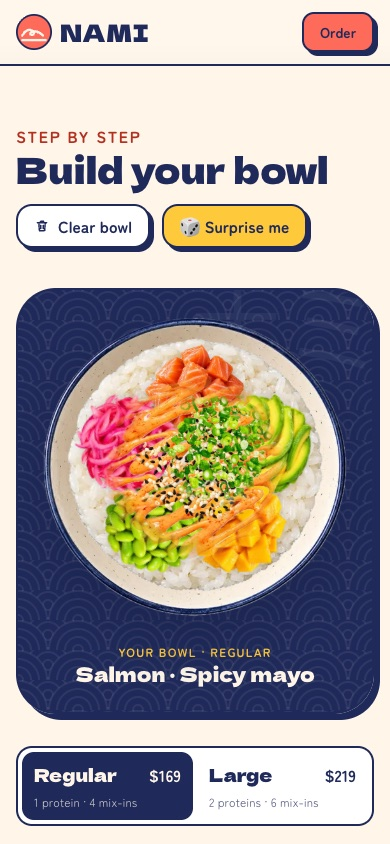
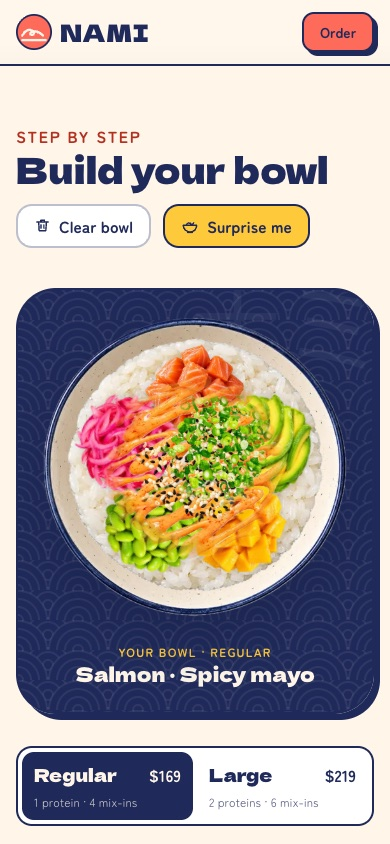
README actualizado y sin la guía de prompts
- Nueva sección "Design": íconos propios, sticker solo en acciones
  clave, el bowl como protagonista del hero y el patrón seigaiha
- Etiquetas de dieta descritas como "solo lo que distingue"
- Lighthouse re-medido (móvil 94, escritorio 100) y capturas nuevas
- Se elimina docs/prompts-imagenes.md

Changed region(s): [[0.0308, 0.2464, 0.8, 0.3081]]

diff --git a/README.md b/README.md
@@ -36,7 +36,7 @@ A landing page with a **real-time visual poke bowl builder**. Start from a house
 - Three filters: **vegan**, **gluten-free** and **no fish or seafood**.
 - Ingredients that don't match are dimmed and **say why** ("Not vegan", "Contains gluten"); tapping one explains instead of adding it.
 - If the bowl already has something that doesn't match, a notice offers to **remove it** in one tap. "Surprise me" respects the filters too.
-- Every ingredient card shows its diet labels as **text** (Vegan, Gluten-free, Seafood), not only as colors or icons.
+- Ingredient cards only label **what sets them apart** (Seafood, Contains gluten, Not vegan), as text rather than color or icons. Most ingredients are vegan and gluten-free, so marking them all would just be noise.
 - Labels are **derived from what each ingredient contains** (fish, shellfish, meat, egg, gluten), so one fact drives the filters, the card labels and the house bowl labels.
 
 ### Order with several bowls and simulated checkout
@@ -63,11 +63,18 @@ A landing page with a **real-time visual poke bowl builder**. Start from a house
 | Mobile | 94 | 100 | 100 | 100 |
 | Desktop | 100 | 100 | 100 | 100 |
 
-Mobile: First Contentful Paint 2.3 s · Largest Contentful Paint 2.6 s · Total Blocking Time 0 ms · Cumulative Layout Shift 0.001 · 611 KiB transferred (median of 5 runs, Lighthouse 12 default mobile throttling). Measured **with the real ingredient photos**.
+Mobile: First Contentful Paint 2.3 s · Largest Contentful Paint 2.6 s · Total Blocking Time 20 ms · Cumulative Layout Shift 0.001 · 612 KiB transferred (median of 5 runs, Lighthouse 12 default mobile throttling). Measured **with the real ingredient photos**.
 
 **Automated accessibility audit:** axe-core reports **0 violations** of WCAG 2.0 / 2.1 levels A and AA in 8 key states (Spanish and English home, empty bowl, dietary preferences with conflicting ingredients, and checkout with several bowls, review, validation errors and confirmation), on both desktop and mobile. These checks run on every push.
 
 > Automated tools catch many, but not all, accessibility issues. These results mean no violations were *detected*, not that the site has been certified as WCAG-conformant.
+
+## Design
+
+- **One visual language, not a template**: a small set of custom line icons (2 px, rounded ends, the same stroke as the logo's wave) instead of emojis or mixed symbols.
+- **Emphasis is earned**: the hard "sticker" shadow is reserved for the key action of each moment ("Order", "Build my bowl", "Add to order", the checkout's main button) and for the bowl stage; everything else uses a quiet thin border, so the eye goes straight to what matters.
+- **The product is the hero**: the first view shows the bowl itself, slowly spinning, with its ingredients dropping in once the page loads, a preview of the builder rather than generic marketing badges.
+- **Japanese wave pattern (seigaiha)** used as a brand texture in the hero, the builder stage and the house bowl cards.
 
 ## Accessibility
 
@@ -90,7 +97,7 @@ Built so it can be used with a keyboard and a screen reader, not only with a mou
 - **Visible focus**: every interactive element has a high-contrast focus outline.
 - **Accessible name matches the visible label** (for example, the logo link is announced as "NAMI Poke Bar, home"), so voice-control users can say what they see.
 - **Reduced motion**: respects the system's `prefers-reduced-motion` setting, for both Motion animations and smooth scrolling.
-- **Decorative content hidden**: decorative graphics (patterns, Japanese characters, the bowl art) are hidden from assistive technology.
+- **Decorative content hidden**: decorative graphics (patterns, Japanese characters, the bowl art, icons) are hidden from assistive technology; every icon sits next to a text label that carries the meaning.
 
 ## Responsive design
 
@@ -148,7 +155,7 @@ src/
     art/                  ← real photo of each ingredient, or a drawn placeholder
     builder/              ← size toggle, dietary filters, steps, ingredient cards, summary
     checkout/             ← the order and 3-step checkout modal
-    ui/                   ← logo, flags, language switch, toast, diet labels, lazy rendering
+    ui/                   ← icons, logo, flags, language switch, toast, diet labels, lazy rendering
   sections/               ← top bar, header, hero, house bowls, how it works, footer
 e2e/                      ← Playwright end-to-end and accessibility tests
 scripts/optimize-images.mjs ← PNG → WebP in two sizes (npm run images)
@@ -157,7 +164,7 @@ scripts/optimize-images.mjs ← PNG → WebP in two sizes (npm run images)
 
 ## Images
 
-Ingredient photos are generated with AI using a shared style block, so every layer has the same top-down angle and lighting. The prompts are in [`docs/prompts-imagenes.md`](docs/prompts-imagenes.md) (in Spanish).
+Ingredient photos are generated with AI using a shared style, so every layer has the same top-down angle and lighting and the bowl reads as a single photo.
 
 - **Source**: high-resolution PNGs with transparency in `assets/images/` (kept out of the repository).
 - **Published**: `npm run images` turns them into WebP files in `public/images/`, in two widths per photo. Widths per folder live in [`src/data/image-widths.json`](src/data/image-widths.json), shared by the script and the app.
